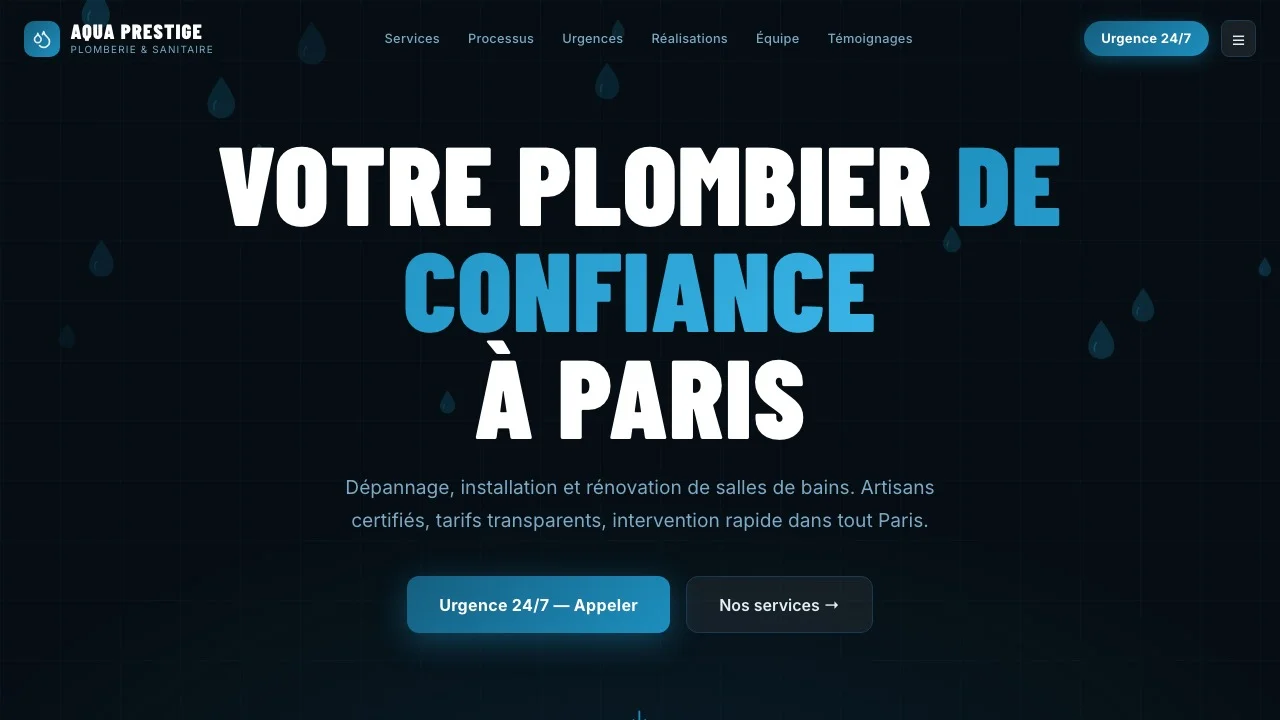
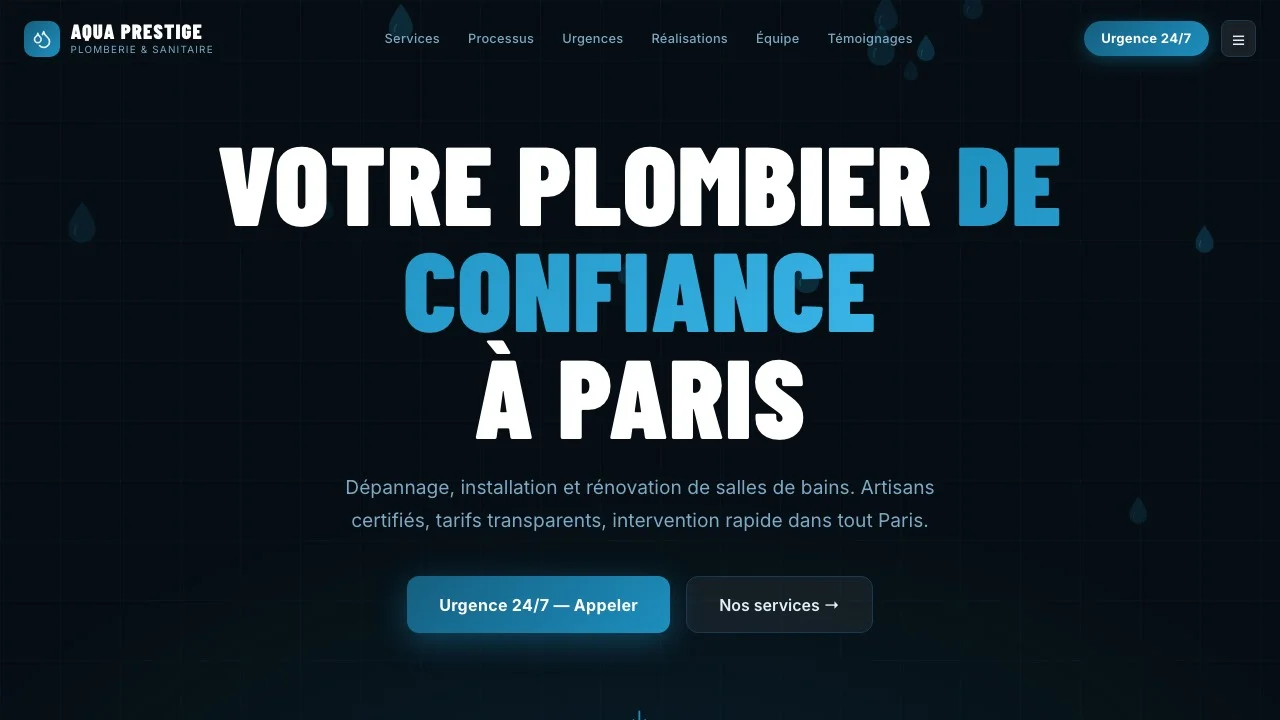
feat(images): les « réalisations » du plombier deviennent de vraies salles de bains
Les six cartes de réalisations d'impact-214 étaient six dégradés de bleu
avec une baignoire en émoji, sous des titres comme « Marbre & Laiton ».
Un artisan se montre par son travail : ce sont maintenant six salles de
bains réelles, une par carte. Les photos du client passent avant.

Un voile a été posé sous les libellés : ils sont blancs, et une salle de
bains est claire — sans lui, « Scandinave épuré » se perdait dans le
carrelage.

L'erreur d'hydratation que Next signale sur ce thème préexiste : même
compte avant et après ce changement. Elle est distincte des clés
dupliquées corrigées plus tôt, et vient de main.

diff --git a/app/templates/impact-214/page.tsx b/app/templates/impact-214/page.tsx
@@ -23,6 +23,7 @@ import {
   clientMethode,
   clientName,
   clientPhone,
+  clientPhotos,
   clientReviews,
   clientServices,
   clientStats,
@@ -647,14 +648,18 @@ function PortfolioCard({ style, surface, budget, city, index }: PortfolioCardPro
   const ref = useRef<HTMLDivElement>(null);
   const inView = useInView(ref, { once: true, margin: '-60px' });
 
-  const gradients = [
-    'linear-gradient(135deg, #0f2030, #1a3a55)',
-    'linear-gradient(135deg, #0e1e30, #1a4a60)',
-    'linear-gradient(135deg, #14202e, #2a4a65)',
-    'linear-gradient(135deg, #0c1e2e, #1e3850)',
-    'linear-gradient(135deg, #10202e, #1a3548)',
-    'linear-gradient(135deg, #0a1c2c, #1e4060)',
+  /* Les « réalisations » d'un plombier étaient six dégradés de couleur avec
+     une baignoire en émoji. Un artisan se montre par son travail : ce sont
+     maintenant des salles de bains. Les photos du client passent avant. */
+  const photos = [
+    'https://images.pexels.com/photos/35493887/pexels-photo-35493887.jpeg?auto=compress&cs=tinysrgb&w=1600',
+    'https://images.pexels.com/photos/7005268/pexels-photo-7005268.jpeg?auto=compress&cs=tinysrgb&w=1600',
+    'https://images.pexels.com/photos/8143714/pexels-photo-8143714.jpeg?auto=compress&cs=tinysrgb&w=1600',
+    'https://images.pexels.com/photos/3935352/pexels-photo-3935352.jpeg?auto=compress&cs=tinysrgb&w=1600',
+    'https://images.pexels.com/photos/8134810/pexels-photo-8134810.jpeg?auto=compress&cs=tinysrgb&w=1600',
+    'https://images.pexels.com/photos/7166568/pexels-photo-7166568.jpeg?auto=compress&cs=tinysrgb&w=1600',
   ];
+  const photoCarte = clientPhotos(sessionData)[index] || photos[index % photos.length];
 
   return (
     <motion.div
@@ -677,7 +682,9 @@ function PortfolioCard({ style, surface, budget, city, index }: PortfolioCardPro
       <div
         style={{
           height: '180px',
-          background: gradients[index % gradients.length],
+          backgroundImage: `url(${photoCarte})`,
+          backgroundSize: 'cover',
+          backgroundPosition: 'center',
           display: 'flex',
           alignItems: 'center',
           justifyContent: 'center',
@@ -685,8 +692,19 @@ function PortfolioCard({ style, surface, budget, city, index }: PortfolioCardPro
           overflow: 'hidden',
         }}
       >
-        <div style={{ textAlign: 'center' }}>
-          <div style={{ marginBottom: '0.5rem' }}><TemplateIcon emoji="🛁" size={56} /></div>
+        {/* Un voile sous le libellé : le titre est blanc, et une salle de bains
+            est claire. Sans lui, « SCANDINAVE ÉPURÉ » se perdait dans le
+            carrelage. */}
+        <div
+          aria-hidden
+          style={{
+            position: 'absolute',
+            inset: 0,
+            background: 'linear-gradient(180deg, rgba(8,20,32,0.15) 0%, rgba(8,20,32,0.55) 100%)',
+          }}
+        />
+        <div style={{ textAlign: 'center', position: 'relative' }}>
+
           <div
             style={{
               fontFamily: "'Barlow Condensed', sans-serif",

diff --git a/app/templates/impact-215/page.tsx b/app/templates/impact-215/page.tsx
@@ -22,11 +22,22 @@ import {
   clientList,
   clientName,
   clientPhone,
+  clientPhotos,
   clientReviews,
   clientServices,
   clientStats,
   clientText,
 } from "@/lib/templates/clientContent";
+
+const PHOTOS_PRODUIT = [
+  'https://images.pexels.com/photos/5562761/pexels-photo-5562761.jpeg?auto=compress&cs=tinysrgb&w=1600',
+  'https://images.pexels.com/photos/9307960/pexels-photo-9307960.jpeg?auto=compress&cs=tinysrgb&w=1600',
+  'https://images.pexels.com/photos/4641249/pexels-photo-4641249.jpeg?auto=compress&cs=tinysrgb&w=1600',
+  'https://images.pexels.com/photos/4573121/pexels-photo-4573121.jpeg?auto=compress&cs=tinysrgb&w=1600',
+  'https://images.pexels.com/photos/7018820/pexels-photo-7018820.jpeg?auto=compress&cs=tinysrgb&w=1600',
+  'https://images.pexels.com/photos/34592373/pexels-photo-34592373.jpeg?auto=compress&cs=tinysrgb&w=1600',
+];
+
 
 // Variables de module lues par les sections extraites en composants :
 // déclarées ici pour que tout le fichier puisse s'y référer.
@@ -540,9 +551,13 @@ function ProductCard({
         flexDirection: 'column',
       }}
     >
-      {/* Product image placeholder */}
+      {/* Le cadre l'avouait : « Product image placeholder ». Une boutique de
+          poêles montrait un émoji de flamme à la place de ses produits. Ce
+          sont maintenant de vrais foyers. La photo du client passe avant. */}
       <div style={{
-        background: `linear-gradient(145deg, #1e1208, #2a1a0a)`,
+        backgroundImage: `url(${clientPhotos(sessionData)[i] || PHOTOS_PRODUIT[i % PHOTOS_PRODUIT.length]})`,
+        backgroundSize: 'cover',
+        backgroundPosition: 'center',
         height: '200px',
         display: 'flex',
         alignItems: 'center',
@@ -556,7 +571,6 @@ function ProductCard({
           transition={{ duration: 0.4 }}
           style={{}}
         >
-          <TemplateIcon emoji={p.emoji} size={80} />
         </motion.div>
         <TagBadge tag={p.tag} />
         {discount && (
